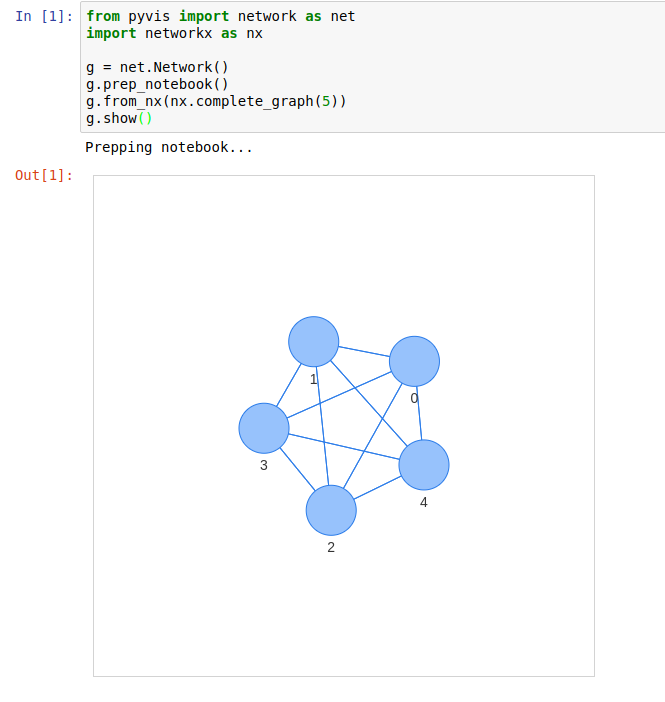
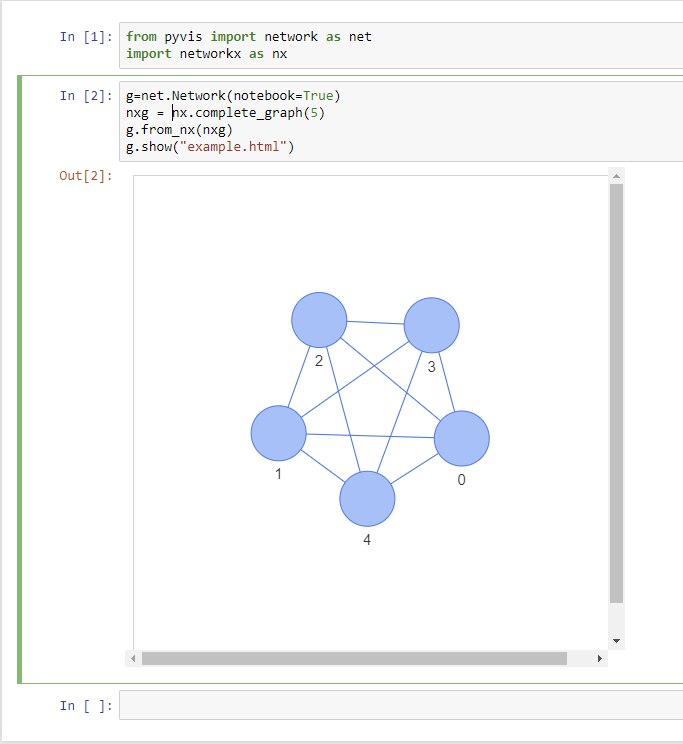
updated an image on the documentaion, as well as changed how the user would choose to render their graphsi n jupyter notebook

diff --git a/pyvis/network.py b/pyvis/network.py
@@ -31,25 +31,24 @@ class Network(object):
     :type directed: bool
     """
 
-    def __init__(self, height="500px", width="500px", directed=False):
+    def __init__(self, height="500px", width="500px", directed=False, notebook=False):
         self.nodes = []
         self.edges = []
         self.height = height
         self.width = width
         self.html = ""
-        self.shape = 'dot'			# default node shape should be dot
+        self.shape = "dot"			
         self.directed = directed
-        self.use_DOT = False 		# to let jinja know if translating from DOT
-        self.dot_lang = ""			# variable holding string rep of dot format
+        self.use_DOT = False
+        self.dot_lang = ""
         self.options = Options()
         self.widget = False
         self.node_ids = []
         self.template = None
-        if not hasattr(main, "__file__"):
-            # use relative path if in interactive mode from cwd
-            self.path = "templates/template.html"
-        else:
-            self.path = os.path.dirname(__file__) + "/templates/template.html"
+        self.path = os.path.dirname(__file__) + "/templates/template.html"
+        
+        if notebook:
+            self.prep_notebook()
 
     def __str__(self):
         """
@@ -416,9 +415,7 @@ class Network(object):
             webbrowser.open(name)
 
     def prep_notebook(self,
-                      path=os.path.dirname(__file__) +
-                      "/templates/template.html",
-                      custom_template=False):
+                      custom_template=False, custom_template_path=None):
         """
         Loads the template data into the template attribute of the network.
         This should be done in a jupyter notebook environment before showing
@@ -432,19 +429,13 @@ class Network(object):
         :param path: the relative path pointing to a template html file
         :type path: string
         """
-        if custom_template:
-            self.set_template(path)
-        if not os.path.exists("out/"):
-            os.makedirs("out/")
-        with open(path) as html:
+        if custom_template and custom_template_path:
+            self.set_template(custom_template_path)
+        with open(self.path) as html:
             content = html.read()
         self.template = Template(content)
-        self.path = path
 
     def set_template(self, path_to_template):
-        # TODO: re-check this code
-        # with open(path_to_template) as html:
-        #     content = html.read()
         self.path = path_to_template
 
     def from_DOT(self, dot):

diff --git a/pyvis/source/conf.py b/pyvis/source/conf.py
@@ -62,9 +62,9 @@ author = u'Giancarlo Perrone'
 # built documents.
 #
 # The short X.Y version.
-version = u'0.0.1'
+version = u'0.1'
 # The full version, including alpha/beta/rc tags.
-release = u'0.0.1'
+release = u'0.1.1'
 
 # The language for content autogenerated by Sphinx. Refer to documentation
 # for a list of supported languages.

diff --git a/pyvis/source/license.rst b/pyvis/source/license.rst
@@ -4,4 +4,4 @@ License
 
 Pyvis is distributed with the MIT license.
 
-.. include:: ../LICENSE-MIT
+.. include:: ..LICENSE_BSD.txt
